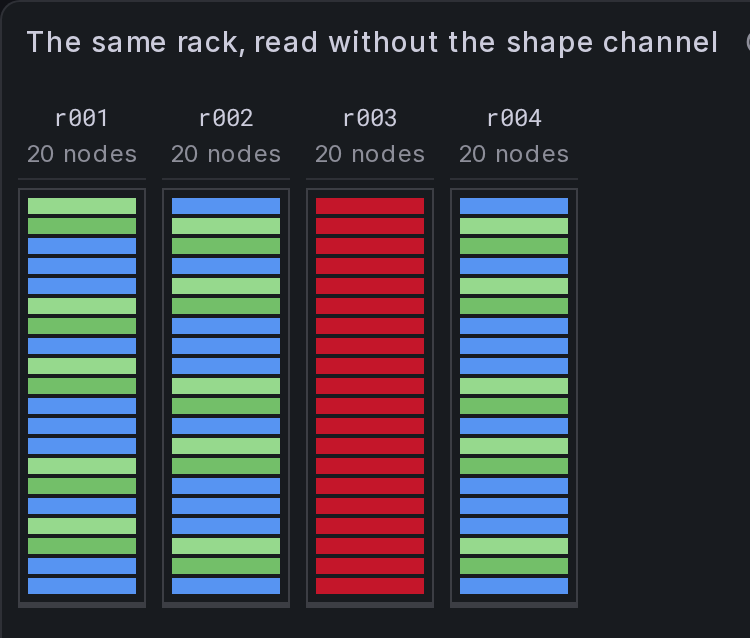
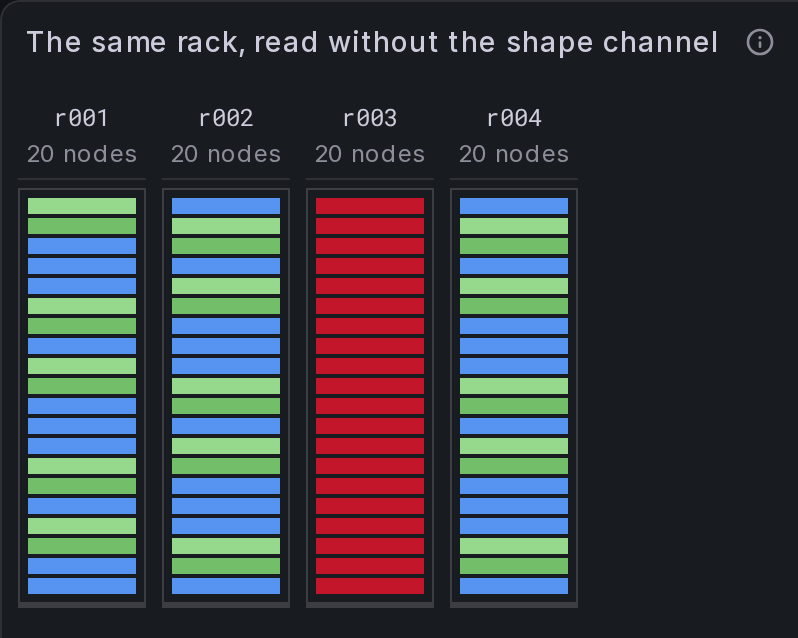
docs: show the grouping routes instead of only describing them
docs/grouping.md is the densest prose in the repository and carried no
image at all. Three now, each beside the paragraph that earns it: the
filtered floor, the join grouping by a dimension that exists only in the
inventory, and an inventory covering less than the query with its orphans
named rather than dropped. The new section in the panel README gets the
filtered floor too.

The join one is the paragraph that needed it most. "Group by a column the
metrics do not carry" is a sentence a reader can follow and still not
picture; aisleA, aisleB and aisleC drawn over nodes named c1 and g1 is the
whole argument in one look.

The crop measured a panel title by its text and Grafana puts the
description icon after it as a sibling, so a panel whose title was the
widest thing in it had that icon shaved in half. It gets the icon's width
now.

diff --git a/docs/grouping.md b/docs/grouping.md
@@ -137,8 +137,14 @@ Written out as the panel JSON actually carries it:
 ```
 
 This repository's own dev stack runs exactly this chain against live
-Prometheus data. See `dev/README.md`, "Three ways to a topology", for the
-worked panel with real node names.
+Prometheus data — the panel below groups by `zone`, a dimension that exists
+in the inventory and nowhere in the scraped metrics, which is what proves
+the join ran rather than the relabelling:
+
+![Nodes grouped into aisleA, aisleB and aisleC, values that exist only in the joined inventory](../plugins/nodegrid-panel/src/img/node-grid-join.png)
+
+See `dev/README.md`, "Three ways to a topology", for the worked panel with
+real node names.
 
 ### Rung 3: a range table
 
@@ -164,6 +170,8 @@ slurm_node_status{partition="bigmem"}
 and group by `rack` or `partition` as usual. The grid names exactly what came
 back and the warnings strip stays empty.
 
+![Four cpu cabinets and nothing else, with an empty warnings strip](../plugins/nodegrid-panel/src/img/node-grid-filtered.png)
+
 There is deliberately no "show only these groups" option. It would hide nodes
 the query *did* return, and a node that exists and is not drawn is a node
 nobody is watching — the one failure this panel is built to prevent. Nodes the
@@ -184,6 +192,12 @@ That is the same line that catches a rack nobody plugged back in after
 maintenance. On a filtered panel it is noise, so filter the tables alongside
 the query — `cpu[1-4]: 4` rather than the whole floor — or hold one table per
 view in a dashboard variable.
+
+What an inventory that covers less than the query looks like — the orphans
+drawn in a dashed frame, named rather than dropped, with the coverage line
+underneath:
+
+![A warnings strip naming 460 unplaced nodes above a grid that still draws every one of them](../plugins/nodegrid-panel/src/img/node-grid-unplaced.png)
 
 ## The hostlist syntax
 

diff --git a/plugins/nodegrid-panel/src/README.md b/plugins/nodegrid-panel/src/README.md
@@ -128,6 +128,8 @@ a panel option — `slurm_node_status{rack=~"cpu.*"}`, or
 `slurm_node_status{partition="bigmem"}` — grouped by `rack` or `partition` as
 usual. The grid names exactly what came back, and nothing is reported missing.
 
+![Four cpu cabinets and nothing else, with an empty warnings strip](https://raw.githubusercontent.com/SckyzO/grafana-plugin-slurm-panel/main/plugins/nodegrid-panel/src/img/node-grid-filtered.png)
+
 There is no "show only these groups" option, deliberately: it would hide nodes
 the query returned, and a node that exists and is not drawn is a node nobody
 is watching. Nodes the query never asked for are a different matter.
